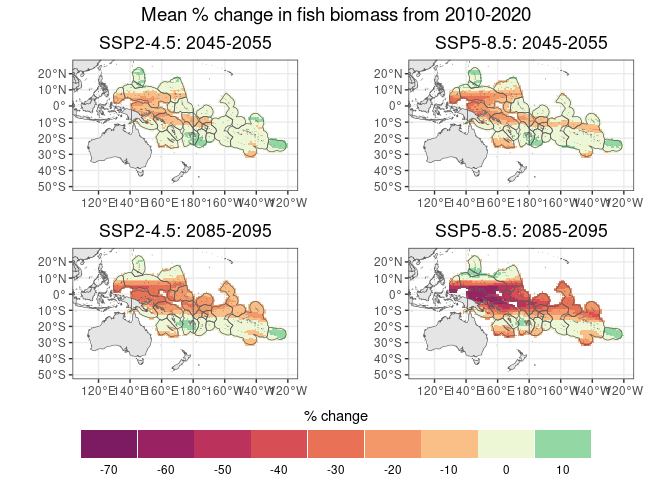
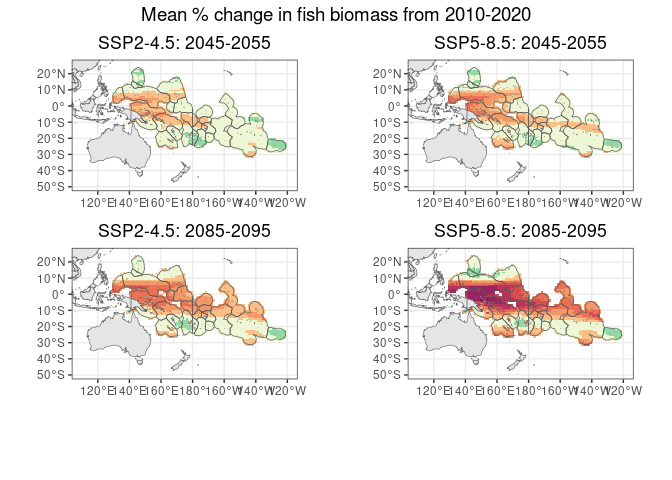
calculating model agreement

diff --git a/Scripts/06_Mapping_biomass_change_SouthPacific.md b/Scripts/06_Mapping_biomass_change_SouthPacific.md
@@ -29,6 +29,11 @@ Denisse Fierro Arcos
     id="toc-creating-individual-maps">Creating individual maps</a>
   - <a href="#saving-final-plot" id="toc-saving-final-plot">Saving final
     plot</a>
+- <a href="#calculating-model-agreement"
+  id="toc-calculating-model-agreement">Calculating model agreement</a>
+  - <a href="#plotting-model-agreement"
+    id="toc-plotting-model-agreement">Plotting model agreement</a>
+  - <a href="#saving-figure" id="toc-saving-figure">Saving figure</a>
 
 # Loading libraries
 
@@ -54,7 +59,8 @@ exclude the Great Barrier Reef (GBR) because it is not relevant here.
 #Loading PICTs EEZ mask and GBR boundaries 
 mask <- read_csv("../Outputs/mask_1deg.csv") |> 
   #Adding names to identify PICTS
-  left_join(read_csv("../Outputs/SouthPacific_EEZ-GBR_keys.csv", col_select = c(name, MRGID)),
+  left_join(read_csv("../Outputs/SouthPacific_EEZ-GBR_keys.csv",
+                     col_select = c(name, MRGID)),
             by = c("mask"= "MRGID")) |> 
   #Rename coordinates
   rename(x = Lon, y = Lat)
@@ -86,11 +92,16 @@ we need to create our maps.
 
 ``` r
 #Folder containing outputs from FishMIP models
-base_folder <- "/rd/gem/private/users/camillan/Extract_tcblog10_Data/Output/sumSize_annual/sizeConsidered10g_10kg/EEZsummaries/gridded_outputs/"
+base_folder <- file.path("/rd/gem/private/users/camillan/Extract_tcblog10_Data",
+                         "Output/sumSize_annual/sizeConsidered10g_10kg",
+                         "EEZsummaries/gridded_outputs")
+
 #Listing all relevant files to calculate biomass projections
 global_files <- list.files(base_folder, full.names = T)
+
 #Models
-members <- str_extract(global_files, "outputs//(.*)_(h|s)", group = 1) |> 
+members <- basename(global_files) |> 
+  str_extract("^(.*)_(h|s)", group = 1) |> 
   unique()
 ```
 
@@ -112,9 +123,11 @@ for(m in members){
   #Load all data available for a single FishMIP model
   df_model <- str_subset(global_files, m) |> 
     #Ignore columns SOVEREIGN1-3 - not needed here
-    map_df(~fread(., drop = c(paste0("SOVEREIGN", 1:3), "area_m", "eez", "GEONAME"))) |> 
+    map_df(~fread(., drop = c(paste0("SOVEREIGN", 1:3), "area_m", "eez", 
+                              "GEONAME"))) |> 
     #Extract data only for years to be used in maps
-    filter(year >= 2010 & year <= 2020 | year >= 2045 & year <= 2055 | year >= 2085 & year <= 2095) |> 
+    filter(year >= 2010 & year <= 2020 | year >= 2045 & year <= 2055 | 
+             year >= 2085 & year <= 2095) |> 
     #Do not keep data before 2021 for scenario ssp585
     filter(!((year >= 2015 & year <= 2020) & scenario == "ssp585")) |> 
     #Applying mask to classify by PICT
@@ -148,8 +161,10 @@ for(m in members){
     mutate(group = case_when(year <= 2020 ~ "reference",
                              year >= 2045 & year <= 2055 ~ "mean50",
                              year >= 2085 & year <= 2095 ~ "mean80"),
-           #The mean50 and mean80 groups also need to have the scenario as part of the label
-           group = case_when(group != "reference" ~ str_c(group, scenario, sep = "_"),
+           #The mean50 and mean80 groups also need to have the scenario as part 
+           #of the label
+           group = case_when(group != "reference" ~ str_c(group, scenario,
+                                                          sep = "_"), 
                              T ~ group)) |> 
     #Calculate mean per ensemble member
     group_by(x, y, mem, esm, mask, name, group) |> 
@@ -221,7 +236,8 @@ for the entire ensemble.
 
 ``` r
 #Listing all relevant files to calculate biomass projections
-maps_data <- list.files("../Outputs/", pattern = "_map_data.csv", full.names = T) |> 
+maps_data <- list.files("../Outputs/", pattern = "_map_data.csv",
+                        full.names = T) |> 
   map_df(~fread(.)) |> 
   #Calculations performed by year and EEZ
   group_by(x, y, mask, name) |> 
@@ -374,10 +390,11 @@ sf_use_s2(F)
 
 ``` r
 #Base map
-world <- ne_countries(returnclass = "sf", scale = "large")
+world <- ne_countries(returnclass = "sf", scale = "medium")
 
 #Split world in two hemispheres 
-west <- st_crop(world, st_bbox(c(xmin = -180, ymin = -50, xmax = -120, ymax = 50)))
+west <- st_crop(world, st_bbox(c(xmin = -180, ymin = -50, xmax = -120, 
+                                 ymax = 50)))
 ```
 
     ## although coordinates are longitude/latitude, st_intersection assumes that they
@@ -490,7 +507,12 @@ p80_585 <- int_bio |>
 
 #Get legend
 legend <- get_legend(p80_585)
+```
 
+    ## Warning in get_plot_component(plot, "guide-box"): Multiple components found;
+    ## returning the first one. To return all, use `return_all = TRUE`.
+
+``` r
 #Remove legend from last plot
 p80_585 <- p80_585+theme(legend.position = "none")
 
@@ -514,5 +536,70 @@ all_plots
 ## Saving final plot
 
 ``` r
-ggsave("../Outputs/maps_perc_change_PICTs_40s-80s_int.pdf", device = "pdf", width = 14, height = 9)
+ggsave("../Outputs/maps_perc_change_PICTs_40s-80s_int.pdf", device = "pdf", 
+       width = 14, height = 9)
+```
+
+# Calculating model agreement
+
+We will only calculate agreement for SSP5-8.5 as this is the only direct
+output available in all FishMIP models. Results for SSP2-4.5 were not
+available as outputs in FishMIP models and instead they were estimated,
+so agreement cannot be calculated.
+
+``` r
+agreement_df <- list.files("../Outputs/", pattern = "_map_data.csv",
+                           full.names = T) |> 
+  map_df(~fread(.)) |> 
+  select(c(x:esm, matches("^mean.*ssp585"))) |> 
+  unite("mem", mem:esm, remove = T) |> 
+  pivot_longer(ends_with("ssp585"), names_to = "decade", 
+               values_to = "values") |> 
+  mutate(decade = case_when(str_detect(decade, "50_") ~ "2045-2055",
+                            str_detect(decade, "80_") ~ "2085-2095"),
+         n_model = n_distinct(mem)) |> 
+  mutate(positive_vals = case_when(values >= 0 ~ 1, values < 0 ~ 0,
+                                   is.na(values) ~ NA)) |> 
+  group_by(x, y, decade) |> 
+  summarise(n_model = mean(n_model),
+            positive_vals = sum(positive_vals, na.rm = T)) |> 
+  mutate(negative_vals = n_model - positive_vals,
+         agreement = (max(negative_vals, positive_vals)/n_model)*100,
+         x = x%%360)
+```
+
+    ## `summarise()` has grouped output by 'x', 'y'. You can override using the
+    ## `.groups` argument.
+
+## Plotting model agreement
+
+``` r
+agreement_df |> 
+  ggplot(aes(x, y, fill = agreement))+
+  geom_tile()+
+  scale_fill_stepsn(colors = cmocean("dense", start = 0.1, end = 0.6)(256), 
+                    n.breaks = 11, limits = c(0, 100), 
+                    show.limits = T)+
+  geom_sf(inherit.aes = F, data = picts, fill = NA, show.legend = F, 
+          linewidth = 0.25, color = "#e8e7e4")+
+  geom_sf(inherit.aes = F, data = oceancent)+
+  facet_grid(~decade)+
+  theme_bw()+
+  labs(fill = "model agreement (%)")+
+  theme(axis.title = element_blank(), axis.text = element_text(size = 11),
+        plot.title = element_text(hjust = 0.5), legend.position = "bottom", 
+        legend.title.position = "top", legend.key.width = unit(1.5, "cm"), 
+        legend.title = element_text(hjust = 0.5), 
+        legend.text = element_text(size = 11), 
+        strip.text = element_text(size = 11))+
+  lims(x = c(110, 240), y = c(-49, 25))
+```
+
+![](Figures/06_Mapping_biomass_change_SouthPacific_files/figure-gfm/unnamed-chunk-13-1.png)<!-- -->
+
+## Saving figure
+
+``` r
+ggsave("../Outputs/maps_model_agreement_PICTs_40s-80s_ssp585.pdf", 
+       device = "pdf", width = 15, height = 6)
 ```
